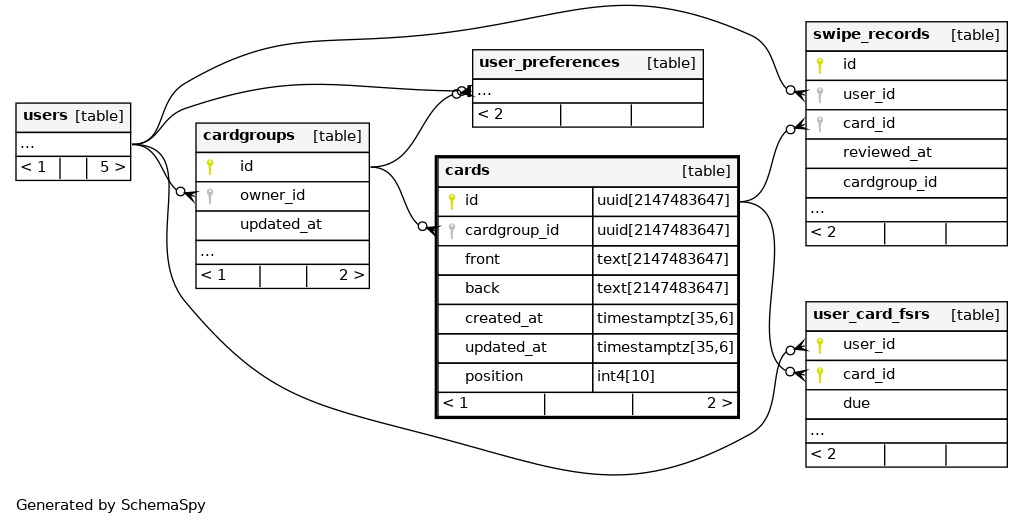
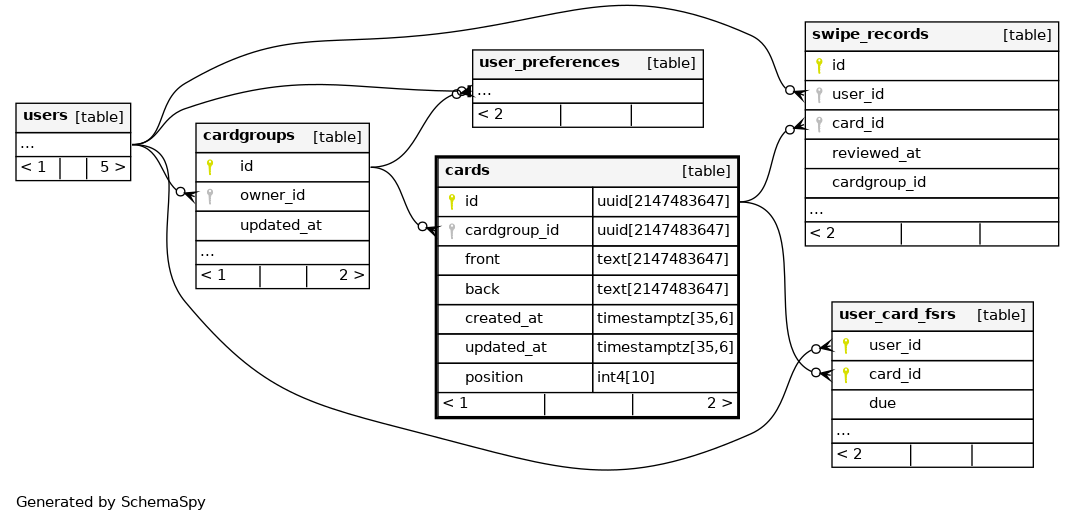
Deploying to gh-pages from @ yasuflatland-lf/flamingo-armond@2795f09c501ff230c56c21585250fc5ce95e9556 🚀

diff --git a/er-chart/relationships.html b/er-chart/relationships.html
@@ -93,35 +93,35 @@
                                 <div class="tab-content no-padding">
                                     <div class="chart tab-pane active" id="compactDegreeImg-chart" style="position: relative; overflow-x:auto;">
                                         <map id="compactRelationshipsDiagram" name="compactRelationshipsDiagram">
-<area shape="rect" id="node1" href="tables/master_cardgroups.html" target="_top" title="master_cardgroups" alt="" coords="251,35,523,240">
-<area shape="rect" id="node2" href="tables/cardgroups.html" target="_top" title="cardgroups" alt="" coords="463,489,657,665">
-<area shape="rect" id="node8" href="tables/users.html" target="_top" title="users" alt="" coords="237,519,419,665">
-<area shape="rect" id="node3" href="tables/swipe_records.html" target="_top" title="swipe_records" alt="" coords="1044,615,1267,849">
-<area shape="rect" id="node9" href="tables/cards.html" target="_top" title="cards" alt="" coords="763,533,939,709">
-<area shape="rect" id="node4" href="tables/user_card_fsrs.html" target="_top" title="user_card_fsrs" alt="" coords="1044,336,1267,512">
-<area shape="rect" id="node5" href="tables/roles.html" target="_top" title="roles" alt="" coords="262,792,394,915">
-<area shape="rect" id="node6" href="tables/user_preferences.html" target="_top" title="user_preferences" alt="" coords="701,369,1000,516">
-<area shape="rect" id="node7" href="tables/master_cards.html" target="_top" title="master_cards" alt="" coords="567,5,820,181">
-<area shape="rect" id="node12" title="auth.users" alt="" coords="5,524,193,612">
-<area shape="rect" id="node10" href="tables/ping_records.html" target="_top" title="ping_records" alt="" coords="925,123,1135,240">
-<area shape="rect" id="node11" href="tables/user_roles.html" target="_top" title="user_roles" alt="" coords="468,763,652,885">
+<area shape="rect" id="node1" href="tables/master_cardgroups.html" target="_top" title="master_cardgroups" alt="" coords="319,35,591,240">
+<area shape="rect" id="node2" href="tables/cardgroups.html" target="_top" title="cardgroups" alt="" coords="463,504,657,680">
+<area shape="rect" id="node8" href="tables/users.html" target="_top" title="users" alt="" coords="237,533,419,680">
+<area shape="rect" id="node3" href="tables/roles.html" target="_top" title="roles" alt="" coords="262,807,394,929">
+<area shape="rect" id="node4" href="tables/swipe_records.html" target="_top" title="swipe_records" alt="" coords="1044,629,1319,864">
+<area shape="rect" id="node9" href="tables/cards.html" target="_top" title="cards" alt="" coords="763,548,939,724">
+<area shape="rect" id="node5" href="tables/user_card_fsrs.html" target="_top" title="user_card_fsrs" alt="" coords="1070,351,1293,527">
+<area shape="rect" id="node6" href="tables/user_preferences.html" target="_top" title="user_preferences" alt="" coords="701,384,1000,531">
+<area shape="rect" id="node7" href="tables/master_cards.html" target="_top" title="master_cards" alt="" coords="635,5,888,181">
+<area shape="rect" id="node12" title="auth.users" alt="" coords="5,539,193,627">
+<area shape="rect" id="node10" href="tables/ping_records.html" target="_top" title="ping_records" alt="" coords="1008,123,1217,240">
+<area shape="rect" id="node11" href="tables/user_roles.html" target="_top" title="user_roles" alt="" coords="468,777,652,900">
 </map>
                                         <a name='diagram'><img id="compactDegreeImg" src="diagrams/summary/relationships.real.compact.png" usemap="#compactRelationshipsDiagram" class="diagram" border="0" align="left"></a>
                                     </div>
                                     <div class="chart tab-pane " id="largeDegreeImg-chart" style="position: relative; overflow-x:auto;">
                                         <map id="largeRelationshipsDiagram" name="largeRelationshipsDiagram">
 <area shape="rect" id="node1" href="tables/master_cardgroups.html" target="_top" title="master_cardgroups" alt="" coords="5,35,277,363">
-<area shape="rect" id="node2" href="tables/cardgroups.html" target="_top" title="cardgroups" alt="" coords="463,743,657,953">
-<area shape="rect" id="node8" href="tables/users.html" target="_top" title="users" alt="" coords="237,772,419,1041">
-<area shape="rect" id="node3" href="tables/swipe_records.html" target="_top" title="swipe_records" alt="" coords="1044,960,1267,1464">
-<area shape="rect" id="node9" href="tables/cards.html" target="_top" title="cards" alt="" coords="763,765,939,1035">
-<area shape="rect" id="node4" href="tables/user_card_fsrs.html" target="_top" title="user_card_fsrs" alt="" coords="1044,476,1267,921">
-<area shape="rect" id="node5" href="tables/roles.html" target="_top" title="roles" alt="" coords="262,1117,394,1240">
-<area shape="rect" id="node6" href="tables/user_preferences.html" target="_top" title="user_preferences" alt="" coords="701,508,1000,748">
+<area shape="rect" id="node2" href="tables/cardgroups.html" target="_top" title="cardgroups" alt="" coords="463,803,657,1013">
+<area shape="rect" id="node8" href="tables/users.html" target="_top" title="users" alt="" coords="237,832,419,1101">
+<area shape="rect" id="node3" href="tables/roles.html" target="_top" title="roles" alt="" coords="262,1177,394,1300">
+<area shape="rect" id="node4" href="tables/swipe_records.html" target="_top" title="swipe_records" alt="" coords="1044,1020,1319,1583">
+<area shape="rect" id="node9" href="tables/cards.html" target="_top" title="cards" alt="" coords="763,825,939,1095">
+<area shape="rect" id="node5" href="tables/user_card_fsrs.html" target="_top" title="user_card_fsrs" alt="" coords="1070,536,1293,981">
+<area shape="rect" id="node6" href="tables/user_preferences.html" target="_top" title="user_preferences" alt="" coords="701,568,1000,808">
 <area shape="rect" id="node7" href="tables/master_cards.html" target="_top" title="master_cards" alt="" coords="321,5,575,275">
-<area shape="rect" id="node12" title="auth.users" alt="" coords="5,772,193,895">
-<area shape="rect" id="node10" href="tables/ping_records.html" target="_top" title="ping_records" alt="" coords="713,211,923,363">
-<area shape="rect" id="node11" href="tables/user_roles.html" target="_top" title="user_roles" alt="" coords="468,1088,652,1211">
+<area shape="rect" id="node12" title="auth.users" alt="" coords="5,832,193,955">
+<area shape="rect" id="node10" href="tables/ping_records.html" target="_top" title="ping_records" alt="" coords="737,211,947,363">
+<area shape="rect" id="node11" href="tables/user_roles.html" target="_top" title="user_roles" alt="" coords="468,1148,652,1271">
 </map>
                                         <a name='diagram'><img id="largeDegreeImg" src="diagrams/summary/relationships.real.large.png" usemap="#largeRelationshipsDiagram" class="diagram" border="0" align="left"></a>
                                     </div>

diff --git a/er-chart/tables/swipe_records.html b/er-chart/tables/swipe_records.html
@@ -373,6 +373,40 @@
                                     </td>
                                     <td></td>
                                 </tr>
+                                <tr>
+                                    <td><span id="phase_before">phase_before</span></td>
+                                    <td>int2</td>
+                                    <td>5</td>
+                                    <td title='nullable'>√</td>
+                                    <td title=''></td>
+                                    <td>null</td>
+                                    <td>
+                                        <table border='0' cellspacing='0' cellpadding='0'>
+                                        </table>
+                                    </td>
+                                    <td>
+                                        <table border='0' cellspacing='0' cellpadding='0'>
+                                        </table>
+                                    </td>
+                                    <td></td>
+                                </tr>
+                                <tr>
+                                    <td><span id="scheduled_days_before">scheduled_days_before</span></td>
+                                    <td>int4</td>
+                                    <td>10</td>
+                                    <td title='nullable'>√</td>
+                                    <td title=''></td>
+                                    <td>null</td>
+                                    <td>
+                                        <table border='0' cellspacing='0' cellpadding='0'>
+                                        </table>
+                                    </td>
+                                    <td>
+                                        <table border='0' cellspacing='0' cellpadding='0'>
+                                        </table>
+                                    </td>
+                                    <td></td>
+                                </tr>
                                 </tbody>
                             </table>
                         </div>
@@ -482,7 +516,7 @@
                                 <div class="tab-content no-padding">
                                     <div class="chart tab-pane active" id="oneDegreeImg-chart" style="position: relative; overflow-x:auto;">
                                         <map id="oneDegreeRelationshipsDiagram" name="oneDegreeRelationshipsDiagram">
-<area shape="rect" id="node1" href="swipe_records.html" target="_top" title="swipe_records" alt="" coords="231,40,584,549">
+<area shape="rect" id="node1" href="swipe_records.html" target="_top" title="swipe_records" alt="" coords="231,40,656,608">
 <area shape="rect" id="node2" href="cards.html" target="_top" title="cards" alt="" coords="8,169,184,345">
 <area shape="rect" id="node3" href="users.html" target="_top" title="users" alt="" coords="5,5,187,152">
 </map>
@@ -490,14 +524,14 @@
                                     </div>
                                     <div class="chart tab-pane " id="twodegreesDegreeImg-chart" style="position: relative; overflow-x:auto;">
                                         <map id="twoDegreesRelationshipsDiagram" name="twoDegreesRelationshipsDiagram">
-<area shape="rect" id="node1" href="cardgroups.html" target="_top" title="cardgroups" alt="" coords="463,373,657,461">
-<area shape="rect" id="node2" href="users.html" target="_top" title="users" alt="" coords="237,439,419,585">
-<area shape="rect" id="node8" title="auth.users" alt="" coords="5,441,193,529">
-<area shape="rect" id="node3" href="cards.html" target="_top" title="cards" alt="" coords="739,232,915,408">
-<area shape="rect" id="node4" href="swipe_records.html" target="_top" title="swipe_records" alt="" coords="997,5,1351,515">
-<area shape="rect" id="node5" href="user_card_fsrs.html" target="_top" title="user_card_fsrs" alt="" coords="1063,532,1285,620">
-<area shape="rect" id="node6" href="user_preferences.html" target="_top" title="user_preferences" alt="" coords="701,425,953,513">
-<area shape="rect" id="node7" href="user_roles.html" target="_top" title="user_roles" alt="" coords="468,567,652,655">
+<area shape="rect" id="node1" href="cardgroups.html" target="_top" title="cardgroups" alt="" coords="463,417,657,505">
+<area shape="rect" id="node2" href="users.html" target="_top" title="users" alt="" coords="237,483,419,629">
+<area shape="rect" id="node8" title="auth.users" alt="" coords="5,485,193,573">
+<area shape="rect" id="node3" href="cards.html" target="_top" title="cards" alt="" coords="739,276,915,452">
+<area shape="rect" id="node4" href="swipe_records.html" target="_top" title="swipe_records" alt="" coords="997,5,1423,573">
+<area shape="rect" id="node5" href="user_card_fsrs.html" target="_top" title="user_card_fsrs" alt="" coords="1099,591,1321,679">
+<area shape="rect" id="node6" href="user_preferences.html" target="_top" title="user_preferences" alt="" coords="701,469,953,557">
+<area shape="rect" id="node7" href="user_roles.html" target="_top" title="user_roles" alt="" coords="468,611,652,699">
 </map>
                                         <a name='diagram'><img id="twodegreesDegreeImg" src="../diagrams/tables/swipe_records.2degrees.png" usemap="#twoDegreesRelationshipsDiagram" class="diagram" border="0" align="left"></a>
                                     </div>

diff --git a/er-chart/index.html b/er-chart/index.html
@@ -78,7 +78,7 @@
                         <div class="col-md-12">
                             <div class="callout callout-info">
                                 <h4>SchemaSpy Analysis of armond.public</h4>
-                                <p>Generated on Sun Jul 05 11:11 UTC 2026</p>
+                                <p>Generated on Sat Jul 18 22:55 UTC 2026</p>
                             </div>
                         </div>
                     </div>
@@ -118,7 +118,7 @@
                                 <span class="info-box-icon bg-green"><span class="glyphicon glyphicon-list-alt" aria-hidden="true"></span></span>
                                 <div class="info-box-content">
                                     <span class="info-box-text">COLUMNS</span>
-                                    <span class="info-box-number">76</span>
+                                    <span class="info-box-number">78</span>
                                 </div>
                                 <!-- /.info-box-content -->
                             </div>
@@ -224,10 +224,19 @@
                                         <td class="comment detail" style="display: table-cell;"></td>
                                     </tr>
                                     <tr class="tbl even" valign="top">
+                                        <td class="detail"><a href="tables/roles.html">roles</a></td>
+                                        <td class="detail" align="right">1</td>
+                                        <td class="detail" align="right">0</td>
+                                        <td class="detail" align="right">2</td>
+                                        <td class="detail" align="right">-1</td>
+                                        <td class="detail" align="right">Table</td>
+                                        <td class="comment detail" style="display: table-cell;"></td>
+                                    </tr>
+                                    <tr class="tbl even" valign="top">
                                         <td class="detail"><a href="tables/swipe_records.html">swipe_records</a></td>
                                         <td class="detail" align="right">0</td>
                                         <td class="detail" align="right">2</td>
-                                        <td class="detail" align="right">15</td>
+                                        <td class="detail" align="right">17</td>
                                         <td class="detail" align="right">-1</td>
                                         <td class="detail" align="right">Table</td>
                                         <td class="comment detail" style="display: table-cell;"></td>
@@ -237,15 +246,6 @@
                                         <td class="detail" align="right">0</td>
                                         <td class="detail" align="right">2</td>
                                         <td class="detail" align="right">13</td>
-                                        <td class="detail" align="right">-1</td>
-                                        <td class="detail" align="right">Table</td>
-                                        <td class="comment detail" style="display: table-cell;"></td>
-                                    </tr>
-                                    <tr class="tbl even" valign="top">
-                                        <td class="detail"><a href="tables/roles.html">roles</a></td>
-                                        <td class="detail" align="right">1</td>
-                                        <td class="detail" align="right">0</td>
-                                        <td class="detail" align="right">2</td>
                                         <td class="detail" align="right">-1</td>
                                         <td class="detail" align="right">Table</td>
                                         <td class="comment detail" style="display: table-cell;"></td>

diff --git a/er-chart/tables/users.html b/er-chart/tables/users.html
@@ -322,13 +322,13 @@
                                 <div class="tab-content no-padding">
                                     <div class="chart tab-pane active" id="oneDegreeImg-chart" style="position: relative; overflow-x:auto;">
                                         <map id="oneDegreeRelationshipsDiagram" name="oneDegreeRelationshipsDiagram">
-<area shape="rect" id="node1" href="cardgroups.html" target="_top" title="cardgroups" alt="" coords="627,487,822,663">
+<area shape="rect" id="node1" href="cardgroups.html" target="_top" title="cardgroups" alt="" coords="653,487,848,663">
 <area shape="rect" id="node2" href="users.html" target="_top" title="users" alt="" coords="237,408,569,683">
 <area shape="rect" id="node7" title="auth.users" alt="" coords="5,416,193,504">
-<area shape="rect" id="node3" href="swipe_records.html" target="_top" title="swipe_records" alt="" coords="613,5,836,240">
-<area shape="rect" id="node4" href="user_card_fsrs.html" target="_top" title="user_card_fsrs" alt="" coords="613,257,836,433">
-<area shape="rect" id="node5" href="user_preferences.html" target="_top" title="user_preferences" alt="" coords="880,435,1179,581">
-<area shape="rect" id="node6" href="user_roles.html" target="_top" title="user_roles" alt="" coords="633,680,817,803">
+<area shape="rect" id="node3" href="swipe_records.html" target="_top" title="swipe_records" alt="" coords="613,5,888,240">
+<area shape="rect" id="node4" href="user_card_fsrs.html" target="_top" title="user_card_fsrs" alt="" coords="639,257,862,433">
+<area shape="rect" id="node5" href="user_preferences.html" target="_top" title="user_preferences" alt="" coords="932,435,1231,581">
+<area shape="rect" id="node6" href="user_roles.html" target="_top" title="user_roles" alt="" coords="659,680,843,803">
 </map>
                                         <a name='diagram'><img id="oneDegreeImg" src="../diagrams/tables/users.1degree.png" usemap="#oneDegreeRelationshipsDiagram" class="diagram" border="0" align="left"></a>
                                     </div>
@@ -338,8 +338,8 @@
 <area shape="rect" id="node2" href="users.html" target="_top" title="users" alt="" coords="237,131,569,405">
 <area shape="rect" id="node9" title="auth.users" alt="" coords="5,139,193,227">
 <area shape="rect" id="node3" href="cards.html" target="_top" title="cards" alt="" coords="910,69,1046,157">
-<area shape="rect" id="node4" href="swipe_records.html" target="_top" title="swipe_records" alt="" coords="1148,204,1371,439">
-<area shape="rect" id="node5" href="user_card_fsrs.html" target="_top" title="user_card_fsrs" alt="" coords="1148,5,1371,181">
+<area shape="rect" id="node4" href="swipe_records.html" target="_top" title="swipe_records" alt="" coords="1148,204,1423,439">
+<area shape="rect" id="node5" href="user_card_fsrs.html" target="_top" title="user_card_fsrs" alt="" coords="1174,5,1397,181">
 <area shape="rect" id="node6" href="user_preferences.html" target="_top" title="user_preferences" alt="" coords="852,175,1104,263">
 <area shape="rect" id="node7" href="user_roles.html" target="_top" title="user_roles" alt="" coords="619,336,803,459">
 <area shape="rect" id="node8" href="roles.html" target="_top" title="roles" alt="" coords="337,423,469,511">

diff --git a/er-chart/tables/cards.html b/er-chart/tables/cards.html
@@ -351,8 +351,8 @@
                                         <map id="oneDegreeRelationshipsDiagram" name="oneDegreeRelationshipsDiagram">
 <area shape="rect" id="node1" href="cards.html" target="_top" title="cards" alt="" coords="244,173,571,448">
 <area shape="rect" id="node2" href="cardgroups.html" target="_top" title="cardgroups" alt="" coords="5,205,200,381">
-<area shape="rect" id="node3" href="swipe_records.html" target="_top" title="swipe_records" alt="" coords="615,5,837,240">
-<area shape="rect" id="node4" href="user_card_fsrs.html" target="_top" title="user_card_fsrs" alt="" coords="615,257,837,433">
+<area shape="rect" id="node3" href="swipe_records.html" target="_top" title="swipe_records" alt="" coords="615,5,889,240">
+<area shape="rect" id="node4" href="user_card_fsrs.html" target="_top" title="user_card_fsrs" alt="" coords="641,257,863,433">
 </map>
                                         <a name='diagram'><img id="oneDegreeImg" src="../diagrams/tables/cards.1degree.png" usemap="#oneDegreeRelationshipsDiagram" class="diagram" border="0" align="left"></a>
                                     </div>
@@ -360,10 +360,10 @@
                                         <map id="twoDegreesRelationshipsDiagram" name="twoDegreesRelationshipsDiagram">
 <area shape="rect" id="node1" href="cardgroups.html" target="_top" title="cardgroups" alt="" coords="185,118,380,294">
 <area shape="rect" id="node2" href="users.html" target="_top" title="users" alt="" coords="5,98,141,186">
-<area shape="rect" id="node3" href="cards.html" target="_top" title="cards" alt="" coords="424,150,751,424">
-<area shape="rect" id="node4" href="swipe_records.html" target="_top" title="swipe_records" alt="" coords="795,16,1017,251">
-<area shape="rect" id="node5" href="user_card_fsrs.html" target="_top" title="user_card_fsrs" alt="" coords="795,296,1017,472">
-<area shape="rect" id="node6" href="user_preferences.html" target="_top" title="user_preferences" alt="" coords="461,44,713,132">
+<area shape="rect" id="node3" href="cards.html" target="_top" title="cards" alt="" coords="424,150,751,425">
+<area shape="rect" id="node4" href="swipe_records.html" target="_top" title="swipe_records" alt="" coords="795,17,1069,251">
+<area shape="rect" id="node5" href="user_card_fsrs.html" target="_top" title="user_card_fsrs" alt="" coords="821,297,1043,473">
+<area shape="rect" id="node6" href="user_preferences.html" target="_top" title="user_preferences" alt="" coords="461,45,713,133">
 </map>
                                         <a name='diagram'><img id="twodegreesDegreeImg" src="../diagrams/tables/cards.2degrees.png" usemap="#twoDegreesRelationshipsDiagram" class="diagram" border="0" align="left"></a>
                                     </div>

diff --git a/er-chart/columns.html b/er-chart/columns.html
@@ -783,6 +783,34 @@
         "comments": ""
     },
     {
+        "tableName": "swipe_records",
+        "tableFileName": "swipe_records",
+        "tableType": "Table",
+        "keyClass": "",
+        "keyTitle": "",
+        "name": "phase_before",
+        "type": "int2",
+        "length": 5,
+        "nullable": "√",
+        "autoUpdated": "",
+        "defaultValue": "null",
+        "comments": ""
+    },
+    {
+        "tableName": "swipe_records",
+        "tableFileName": "swipe_records",
+        "tableType": "Table",
+        "keyClass": "",
+        "keyTitle": "",
+        "name": "scheduled_days_before",
+        "type": "int4",
+        "length": 10,
+        "nullable": "√",
+        "autoUpdated": "",
+        "defaultValue": "null",
+        "comments": ""
+    },
+    {
         "tableName": "user_card_fsrs",
         "tableFileName": "user_card_fsrs",
         "tableType": "Table",
